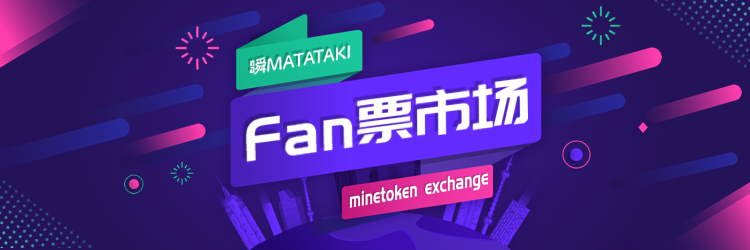
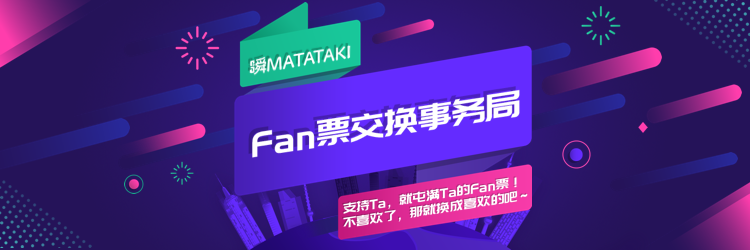
四个修改
1. 退出登录后自动返回“文章页”
2. 点击“HOME”按钮后自动返回“文章页”
3. 更换Fan票交易所的banner
4. 去掉在移动端的的title信息中心的slogan部分

Changed region(s): [[0.3067, 0.0, 0.736, 0.952]]

diff --git a/public/index.html b/public/index.html
@@ -16,7 +16,7 @@
     <meta property="og:description"   content="瞬MATATAKI是一个永久存储和版权确权的内容平台，通过IPFS协议保障内容的永久可访问和确权信息可查询。使用了Fan票经济来激励创作者、探索者、布道者共建未来的超级知识链接网络。" />
     <meta property="og:image"         content="https://ssimg.frontenduse.top/avatar/2019/08/30/c1d6ae7ed4e6102cb45d0a8f656d5569.png" />
     <link rel="icon" href="<%= BASE_URL %>favicon.ico">
-    <title>瞬MATATAKI—发布瞬间，灵感永存</title>
+    <title>瞬MATATAKI</title>
 
     <meta name="description" content="瞬MATATAKI是一个永久存储和版权确权的内容平台，通过IPFS协议保障内容的永久可访问和确权信息可查询。使用了Fan票经济来激励创作者、探索者、布道者共建未来的超级知识链接网络。" />
     <meta name="keywords" content="岛娘,小岛美奈子,唐飞虎,仙女座科技,瞬MATATAKI,智能公告牌,智能投资,裂变营销,价值投资,区块链,比特币,以太坊,去中心化社交,去中心化商店,去中心化,DApp,EOS" />

diff --git a/src/components/Sidebar/index.vue b/src/components/Sidebar/index.vue
@@ -400,7 +400,7 @@ export default {
     ...mapActions(['signOut', 'getNotificationCounters']),
     btnsignOut() {
       this.signOut()
-      this.jumpTo({ name: 'index' })
+      this.jumpTo({ name: 'article' })
       this.$toast.success({
         duration: 1500,
         message: this.$t('success.logoutSuccess')

diff --git a/src/components/baseComponents/BaseHeader.vue b/src/components/baseComponents/BaseHeader.vue
@@ -157,7 +157,7 @@ export default {
       if (this.customizeHomeFunc) {
         this.$emit('headerHomeFunc')
       } else {
-        this.$router.push({ name: 'index' })
+        this.$router.push({ name: 'article' })
       }
     },
     addHandleScroll() {
